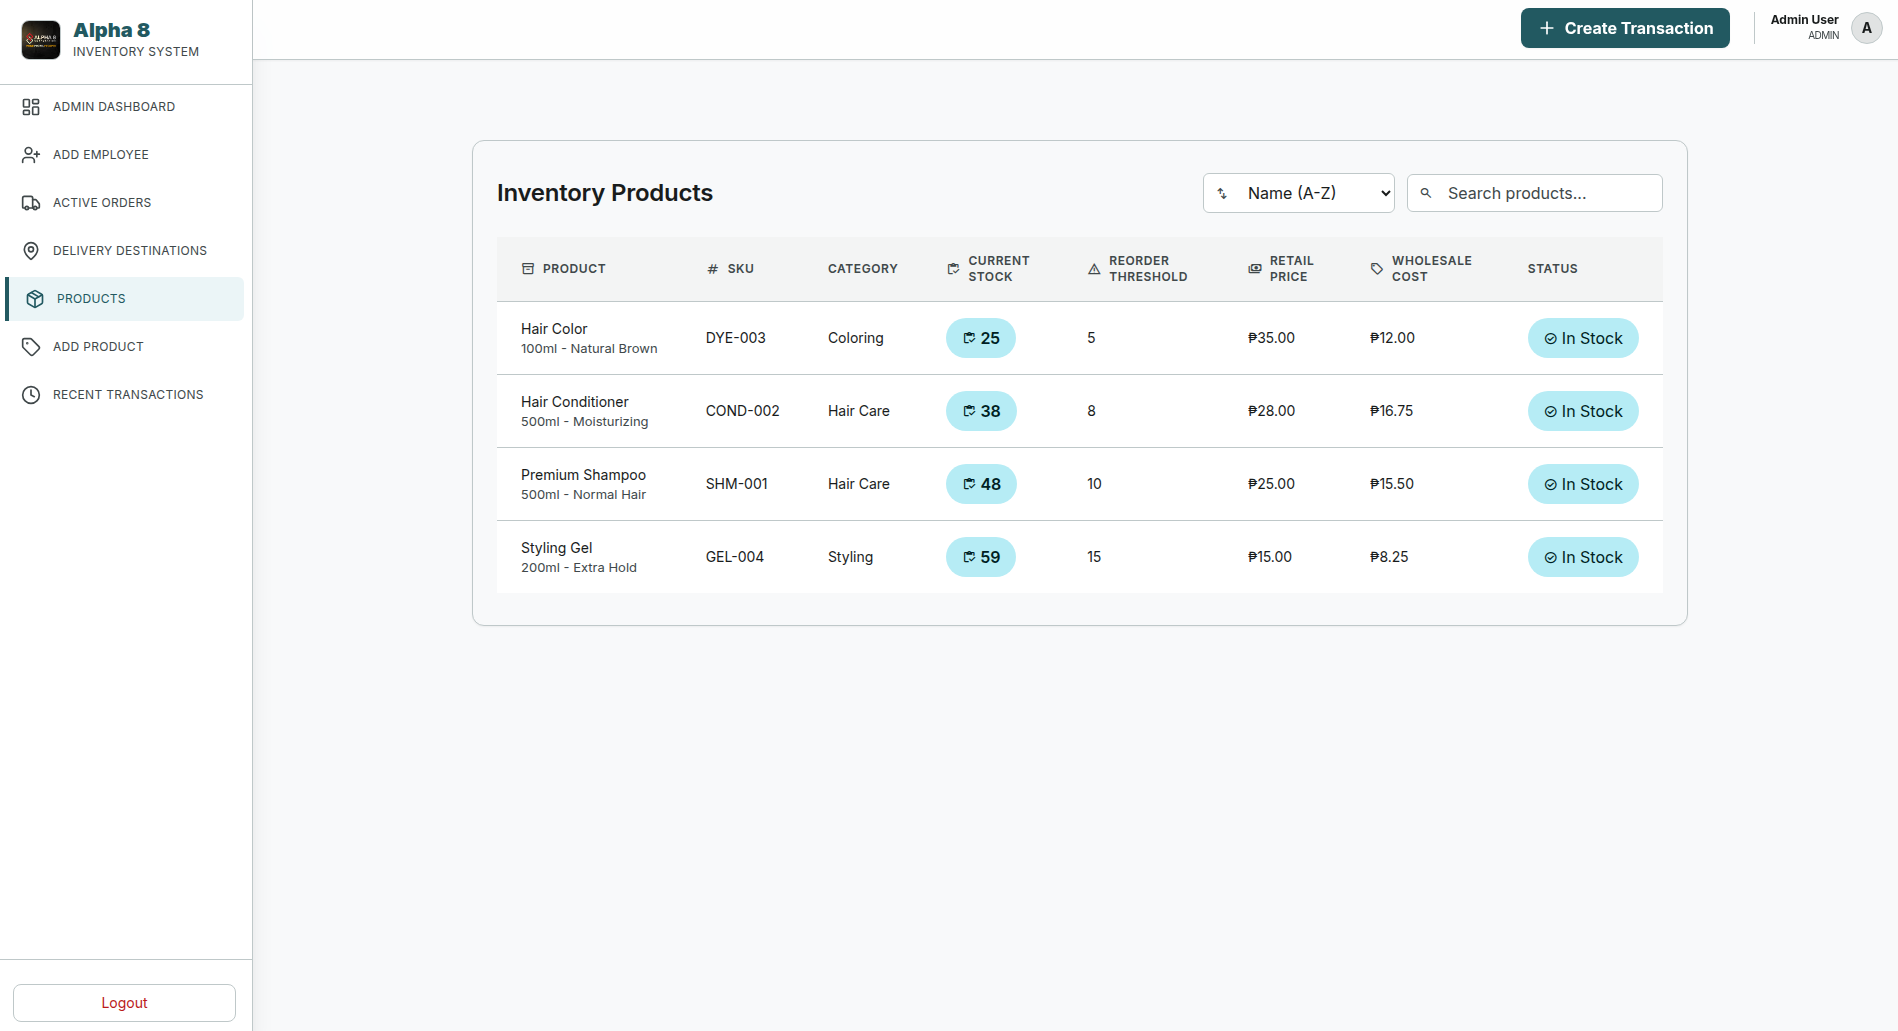
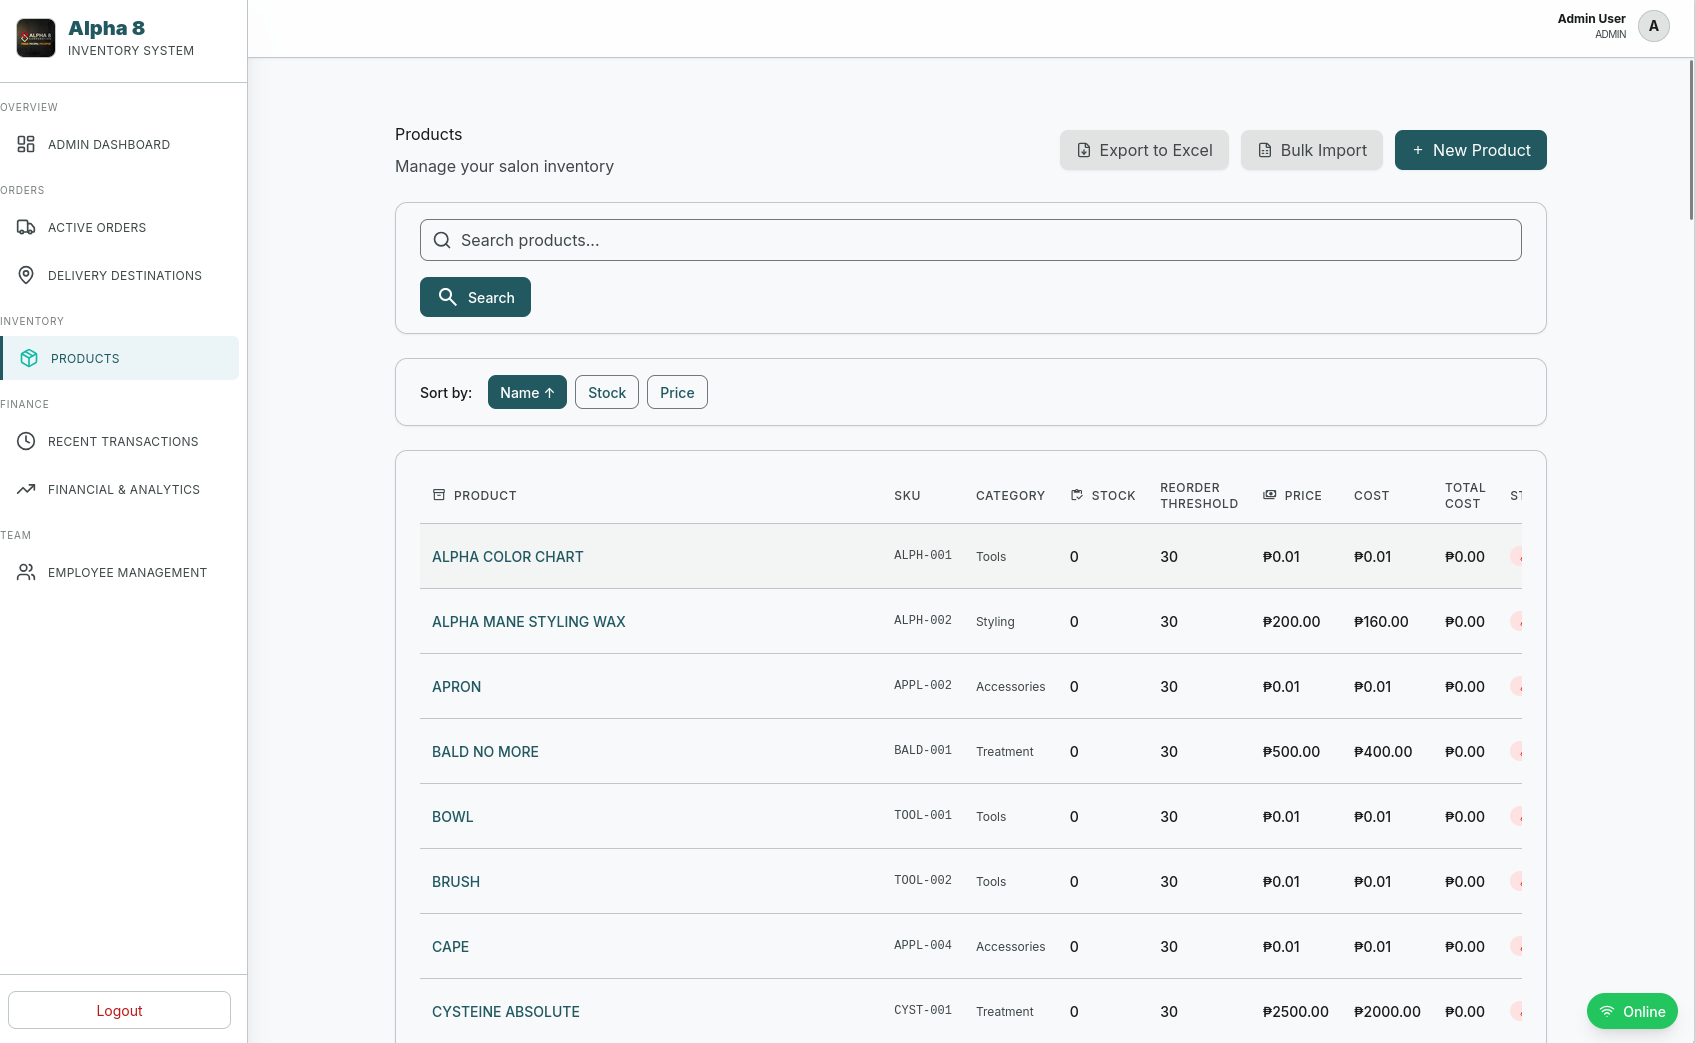
update

diff --git a/app/page.tsx b/app/page.tsx
@@ -34,6 +34,18 @@ export default function Home() {
     });
   };
 
+  const [activeScreenshot, setActiveScreenshot] = useState<{ title: string; url: string } | null>(null);
+
+  useEffect(() => {
+    const handleKeyDown = (e: KeyboardEvent) => {
+      if (e.key === "Escape") {
+        setActiveScreenshot(null);
+      }
+    };
+    window.addEventListener("keydown", handleKeyDown);
+    return () => window.removeEventListener("keydown", handleKeyDown);
+  }, []);
+
   const activeProjectId = PROJECTS.find((p) => expandedBlocks[p.id])?.id;
 
   // Custom JS scroll snap — mandatory-style but with a controllable duration
@@ -56,99 +68,7 @@ export default function Home() {
     }
   }, []);
 
-  // Persistent Ref to keep scroll-event handler state fresh without constant re-binding
-  const activeExperienceIdRef = useRef(activeExperienceId);
-  useEffect(() => {
-    activeExperienceIdRef.current = activeExperienceId;
-  }, [activeExperienceId]);
 
-  // Handle experience wheel and keydown events for desktop split editor scrolling
-  useEffect(() => {
-    if (!isLoaded) return;
-
-    let lastScrollTime = 0;
-    const scrollCooldown = 900; // ms between card transitions to prevent rapid double swipes
-
-    function handleExperienceWheel(e: WheelEvent) {
-      const container = document.querySelector(".snap-container");
-      const el = document.getElementById("experience");
-      if (!container || !el) return;
-
-      // DOM height viewport snap verification: must be closer to `#experience` than 1/3 viewport height
-      const isClose = Math.abs(container.scrollTop - el.offsetTop) < window.innerHeight / 3;
-      if (!isClose) return;
-
-      if (Math.abs(e.deltaY) < 35) return; // ignore minor trackpad drift
-
-      const now = performance.now();
-      if (now - lastScrollTime < scrollCooldown) {
-        // Swallow momentum events during transition cooldown to prevent sudden snapping jumps
-        e.preventDefault();
-        return;
-      }
-
-      const currentId = activeExperienceIdRef.current;
-      const activeIdx = EXPERIENCES.findIndex((exp) => exp.id === currentId);
-      if (e.deltaY > 0) {
-        // Scroll down: next experience card
-        if (activeIdx < EXPERIENCES.length - 1) {
-          e.preventDefault();
-          lastScrollTime = now;
-          setActiveExperienceId(EXPERIENCES[activeIdx + 1].id);
-        }
-      } else {
-        // Scroll up: previous experience card
-        if (activeIdx > 0) {
-          e.preventDefault();
-          lastScrollTime = now;
-          setActiveExperienceId(EXPERIENCES[activeIdx - 1].id);
-        }
-      }
-    }
-
-    function handleExperienceKeyDown(e: KeyboardEvent) {
-      const tag = (e.target as HTMLElement).tagName;
-      if (tag === "INPUT" || tag === "TEXTAREA") return;
-      if (e.key !== "j" && e.key !== "k") return;
-
-      const container = document.querySelector(".snap-container");
-      const el = document.getElementById("experience");
-      if (!container || !el) return;
-
-      const isClose = Math.abs(container.scrollTop - el.offsetTop) < window.innerHeight / 3;
-      if (!isClose) return;
-
-      const now = performance.now();
-      if (now - lastScrollTime < scrollCooldown) {
-        e.preventDefault();
-        return;
-      }
-
-      const currentId = activeExperienceIdRef.current;
-      const activeIdx = EXPERIENCES.findIndex((exp) => exp.id === currentId);
-      if (e.key === "j") {
-        if (activeIdx < EXPERIENCES.length - 1) {
-          e.preventDefault();
-          lastScrollTime = now;
-          setActiveExperienceId(EXPERIENCES[activeIdx + 1].id);
-        }
-      } else {
-        if (activeIdx > 0) {
-          e.preventDefault();
-          lastScrollTime = now;
-          setActiveExperienceId(EXPERIENCES[activeIdx - 1].id);
-        }
-      }
-    }
-
-    window.addEventListener("wheel", handleExperienceWheel, { passive: false, capture: true });
-    window.addEventListener("keydown", handleExperienceKeyDown, { capture: true });
-
-    return () => {
-      window.removeEventListener("wheel", handleExperienceWheel, { capture: true });
-      window.removeEventListener("keydown", handleExperienceKeyDown, { capture: true });
-    };
-  }, [isLoaded]);
 
   const toggleTheme = () => {
     const next = theme === "minimal-dark" ? "minimal-light" : "minimal-dark";
@@ -369,7 +289,7 @@ export default function Home() {
                 <div>
                   <h3 className="text-xl font-light tracking-tight text-[var(--foreground)] mb-2" style={{ fontFamily: "var(--font-inter), sans-serif" }}>Languages</h3>
                   <p className="text-base font-light leading-relaxed text-[var(--on-surface-variant)]" style={{ fontFamily: "var(--font-inter), sans-serif" }}>
-                    TypeScript, Java, Python, C, JavaScript, SQL
+                    TypeScript, Java, Python, C, JavaScript, SQL, Bash (scripting)
                   </p>
                 </div>
                 <div>
@@ -379,9 +299,15 @@ export default function Home() {
                   </p>
                 </div>
                 <div>
-                  <h3 className="text-xl font-light tracking-tight text-[var(--foreground)] mb-2" style={{ fontFamily: "var(--font-inter), sans-serif" }}>Databases & Tools</h3>
+                  <h3 className="text-xl font-light tracking-tight text-[var(--foreground)] mb-2" style={{ fontFamily: "var(--font-inter), sans-serif" }}>Databases & Cloud Platforms</h3>
                   <p className="text-base font-light leading-relaxed text-[var(--on-surface-variant)]" style={{ fontFamily: "var(--font-inter), sans-serif" }}>
-                    PostgreSQL, MongoDB, MySQL, Git, Linux, Vim, VS Code, Supabase, Render, Vercel, GitHub Actions
+                    PostgreSQL, MongoDB, MySQL, Git, VS Code, Supabase, Vercel, Render, GitHub Actions
+                  </p>
+                </div>
+                <div>
+                  <h3 className="text-xl font-light tracking-tight text-[var(--foreground)] mb-2" style={{ fontFamily: "var(--font-inter), sans-serif" }}>Tools & Environment</h3>
+                  <p className="text-base font-light leading-relaxed text-[var(--on-surface-variant)]" style={{ fontFamily: "var(--font-inter), sans-serif" }}>
+                    Ubuntu, i3wm, Vim, Neovim (Lua config), Alacritty, tmux, Bash, Antigravity
                   </p>
                 </div>
                 <div>
@@ -514,13 +440,34 @@ export default function Home() {
                       style={{
                         maxHeight: expandedBlocks[project.id] ? "600px" : "0px",
                         overflow: "hidden",
-                        transition: "max-height 0.3s ease",
+                        transition: "max-height 0.25s cubic-bezier(0.4, 0, 0.2, 1)",
                       }}
                     >
                       <div className="pl-4 md:pl-6 border-l border-dashed border-[var(--card-border)] space-y-3 py-1">
-                        <h3 className="text-2xl md:text-3xl font-light tracking-tight text-[var(--foreground)] mb-2" style={{ fontFamily: "var(--font-inter), sans-serif" }}>
-                          {project.title}
-                        </h3>
+                        <div className="flex flex-wrap items-baseline justify-between gap-4 mb-2">
+                          <h3 className="text-2xl md:text-3xl font-light tracking-tight text-[var(--foreground)]" style={{ fontFamily: "var(--font-inter), sans-serif" }}>
+                            {project.title}
+                          </h3>
+                          {project.images && project.images.length > 0 && (
+                            <span
+                              onClick={(e) => {
+                                e.stopPropagation();
+                                setActiveScreenshot({
+                                  title: project.title,
+                                  url: project.images![0],
+                                });
+                              }}
+                              className="text-[11px] font-mono text-[var(--text-secondary)] select-none cursor-pointer border border-[var(--card-border)] rounded px-2 py-0.5 bg-[var(--btn-secondary-bg)] hover:bg-[var(--card-border)] hover:text-[var(--primary)] transition-all"
+                            >
+                              [&nbsp;
+                              <span className="underline">
+                                {project.images[0].replace("/", "")}
+                              </span>
+                              &nbsp;]
+                            </span>
+                          )}
+                        </div>
+
                         <div className="flex flex-wrap gap-2 mb-4">
                           {project.technologies.map((tech) => (
                             <span key={tech} className="text-[11px] uppercase border-b border-dotted pb-0.5" style={{ fontFamily: "var(--font-jetbrains-mono), monospace", color: "var(--primary)", borderColor: "var(--primary)" }}>
@@ -528,7 +475,8 @@ export default function Home() {
                             </span>
                           ))}
                         </div>
-                        <ul className="list-disc list-outside ml-4 space-y-2 text-sm md:text-base font-light leading-relaxed text-[var(--on-surface-variant)] mb-4" style={{ fontFamily: "var(--font-inter), sans-serif" }}>
+
+                        <ul className="list-disc list-outside ml-4 space-y-2 text-sm md:text-base font-light leading-relaxed text-[var(--on-surface-variant)]" style={{ fontFamily: "var(--font-inter), sans-serif" }}>
                           {project.bullets.map((bullet, idx) => (
                             <li key={idx}>{bullet}</li>
                           ))}
@@ -647,6 +595,36 @@ export default function Home() {
               <span>{theme === "minimal-dark" ? "lightmode.sh" : "darkmode.sh"}</span>
             </button>
           </div>
+
+          {/* Retro screenshot overlay modal */}
+          {activeScreenshot && (
+            <div
+              onClick={() => setActiveScreenshot(null)}
+              className="fixed inset-0 bg-black/85 z-50 flex items-center justify-center p-4 md:p-8 cursor-zoom-out animate-fadeIn"
+            >
+              <div
+                onClick={(e) => e.stopPropagation()}
+                className="border border-[var(--card-border)] rounded bg-[var(--background)] max-w-5xl w-full shadow-2xl overflow-hidden cursor-default"
+              >
+                <div className="flex items-center justify-between px-4 py-2 bg-[var(--btn-secondary-bg)] border-b border-[var(--card-border)] font-mono text-xs text-[var(--text-secondary)] select-none">
+                  <span>{activeScreenshot.title} &mdash; screenshot.png</span>
+                  <button
+                    onClick={() => setActiveScreenshot(null)}
+                    className="hover:text-[var(--primary)] font-mono cursor-pointer transition-colors px-2 py-0.5 border border-[var(--card-border)] rounded text-[10px] bg-[var(--background)]"
+                  >
+                    [ESC] Close
+                  </button>
+                </div>
+                <div className="p-2 bg-[var(--background)]">
+                  <img
+                    src={activeScreenshot.url}
+                    alt={activeScreenshot.title}
+                    className="w-full h-auto object-contain max-h-[75vh] rounded border border-[var(--card-border)]"
+                  />
+                </div>
+              </div>
+            </div>
+          )}
         </div>
       )}
     </IntroAnimation>

diff --git a/app/data/projects.ts b/app/data/projects.ts
@@ -4,6 +4,7 @@ export interface Project {
   title: string;
   technologies: string[];
   bullets: string[];
+  images?: string[];
 }
 
 export const PROJECTS: Project[] = [
@@ -11,12 +12,36 @@ export const PROJECTS: Project[] = [
     id: "akyat",
     filename: "akyat.md",
     title: "Akyat",
-    technologies: ["React", "TypeScript", "Node.js", "Prisma", "PostgreSQL", "Tailwind CSS", "Supabase Auth", "JWT", "Express"],
+    technologies: ["React", "React-Native", "Expo", "TypeScript", "Node.js", "Prisma", "PostgreSQL", "Tailwind CSS", "Supabase Auth", "JWT", "Express"],
     bullets: [
       "Architected full-stack bouldering logging platform with Supabase Auth, HTTP-only cookie session management, and role-scoped data isolation.",
       "Eliminated manual climb tracking via structured session logging with active-session persistence — reducing data loss during multi-hour gym sessions for highly reliable training records.",
       "Surfaced actionable training insights through an analytics dashboard with animated grade pyramids — identifying user weaknesses by hold type and wall angle to enable data-informed training decisions."
-    ]
+    ],
+    images: ["/akyat.png"]
+  },
+  {
+    id: "products",
+    filename: "salon-inventory.md",
+    title: "Salon Product Inventory Management System (Stackform)",
+    technologies: [
+      "React",
+      "Vite",
+      "Node.js",
+      "Express",
+      "Prisma",
+      "PostgreSQL",
+      "Tailwind CSS",
+      "supabase",
+      "vercel",
+      "render"
+    ],
+    bullets: [
+      "Co-engineered and shipped a custom full-stack inventory system under the Stackform agency for our client, a salon business located in Tarlac, utilizing React, Node.js, Express, Prisma, and PostgreSQL (Supabase) with RBAC, audit logs, and low-stock alerts.",
+      "Led the transition from manual Excel workflows to a centralized, agency-built solution, capturing 500,000+ PHP in monthly transactions and eliminating salon stock discrepancies.",
+      "Delivered custom inventory analytics modules to trace consumption trends, empowering the business owner with data-driven purchasing models to reduce overstock."
+    ],
+    images: ["/salon-inventory.png"]
   },
   {
     id: "flood",
@@ -27,6 +52,7 @@ export const PROJECTS: Project[] = [
       "Engineered high-throughput JavaScript data pipeline parsing, cleaning, and validating raw DPWH flood control datasets containing 10,000+ records across multi-year intervals.",
       "Implemented multi-level aggregation algorithms and statistical models computing derived metrics, transforming unstructured CSV inputs into regional infrastructure financial reports.",
       "Optimized data processing layers maintaining structural integrity and minimizing memory overhead during heavy validation and filtering workflows."
-    ]
-  }
+    ],
+    images: ["/pipeline.png"]
+  },
 ];

diff --git a/app/components/Sidebar.tsx b/app/components/Sidebar.tsx
@@ -87,7 +87,7 @@ export default function Sidebar({
             }}>
               ethan sia
             </p>
-            <p style={{
+            {/* <p style={{
               fontFamily: "var(--font-jetbrains-mono), monospace",
               fontSize: "11px",
               color: "var(--text-secondary)",
@@ -95,7 +95,7 @@ export default function Sidebar({
               opacity: 0.7,
             }}>
               ~ / portfolio
-            </p>
+            </p> */}
           </div>
 
           {/* Icon buttons */}